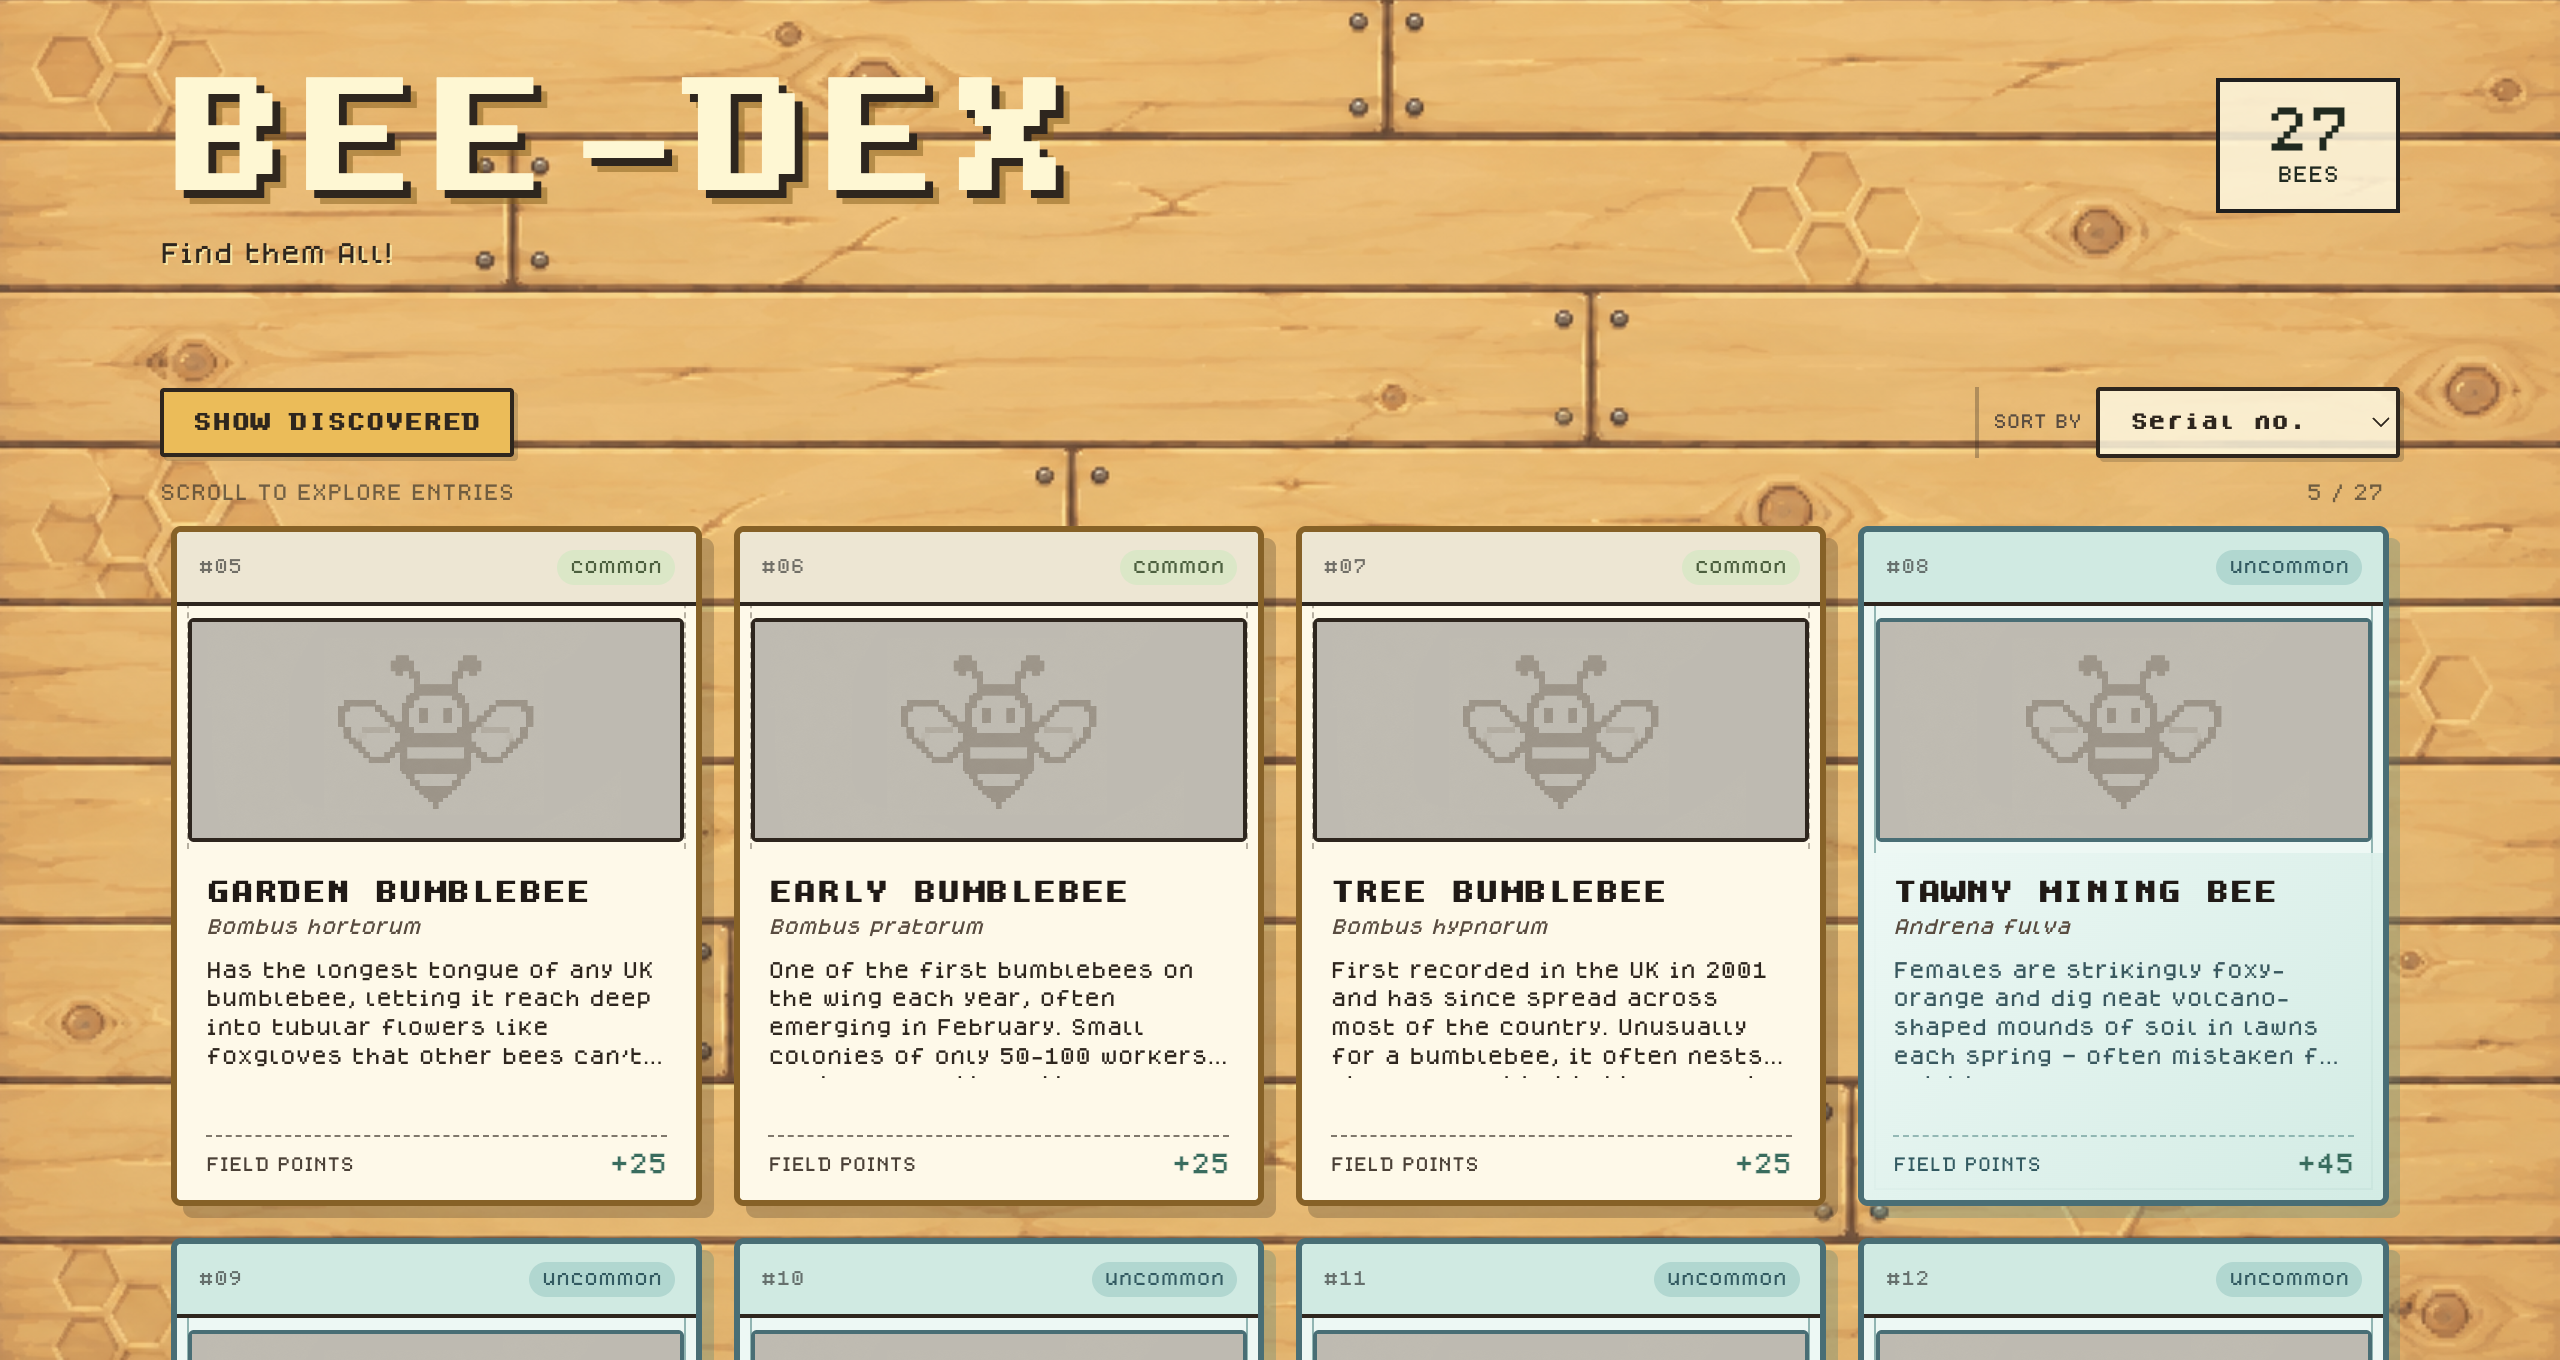
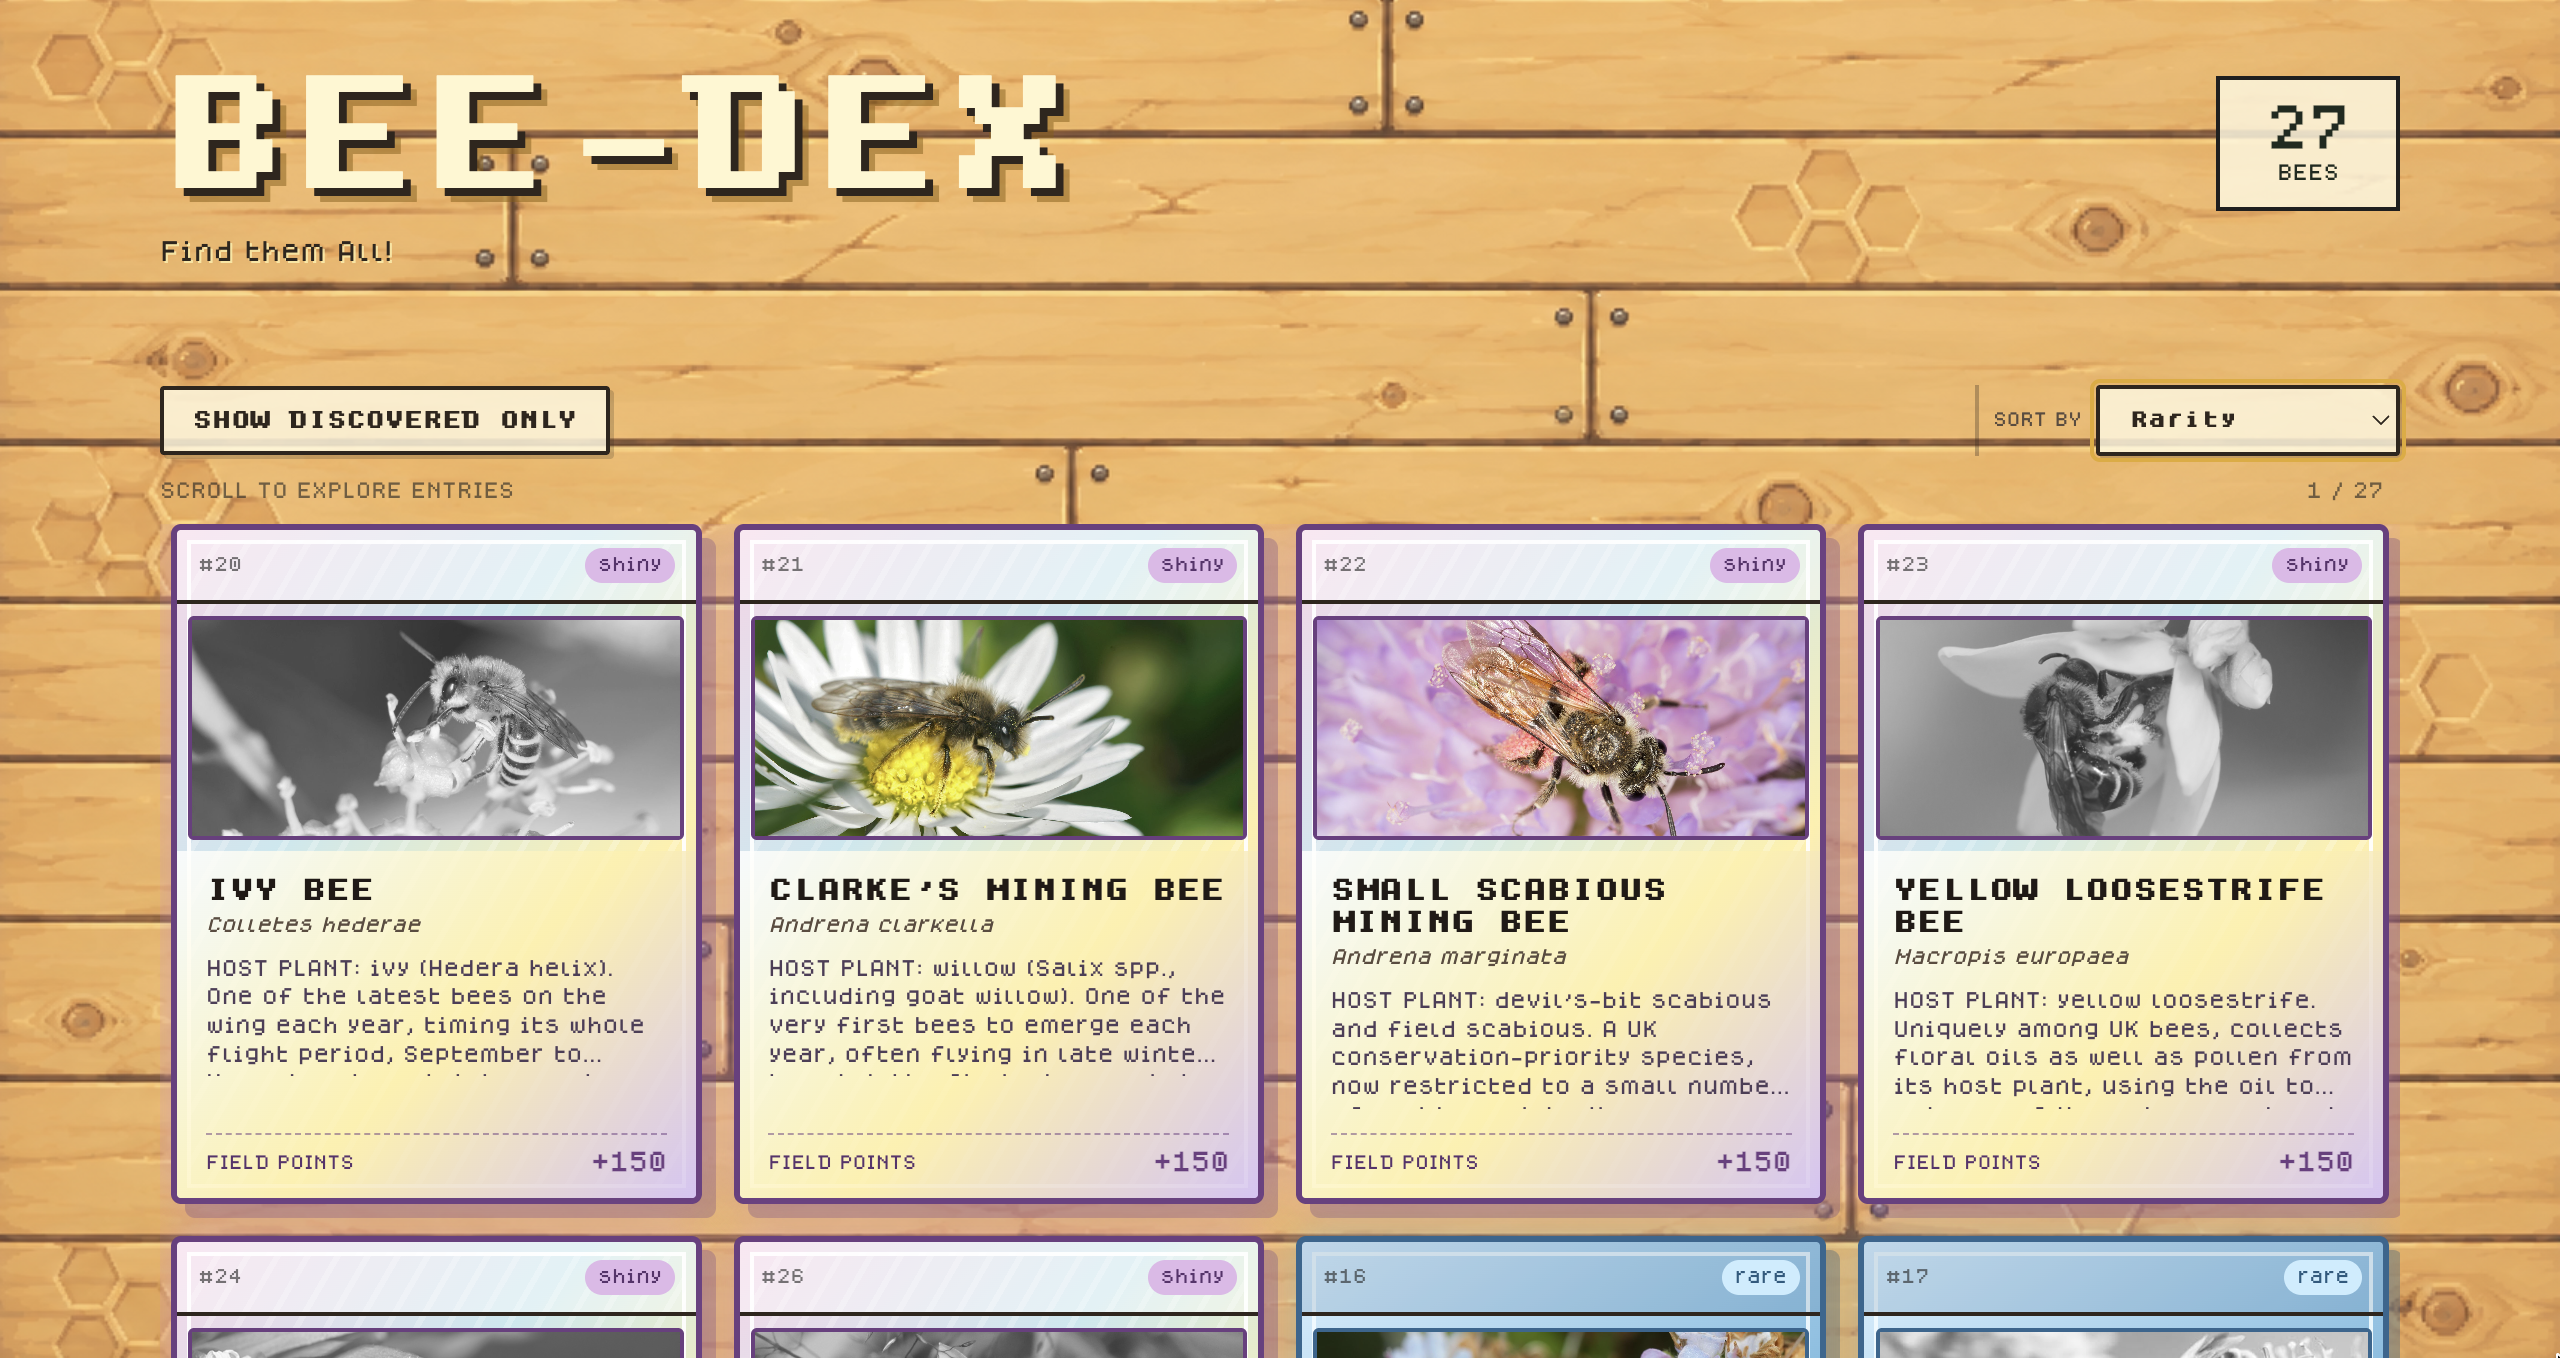
chore: minor cleanups

diff --git a/frontend/src/pages/Beedex.jsx b/frontend/src/pages/Beedex.jsx
@@ -1,7 +1,7 @@
 import { useEffect, useState } from "react"
 import { useRef } from "react"
 import { getBeedex, getUserBeedex } from "../api"
-import SpeciesCard from "../components/SpeciesCard"
+import SpeciesCard, { beeImageExtensions } from "../components/SpeciesCard"
 import "./Beedex.css"
 
 const Beedex = () => {
@@ -43,6 +43,12 @@ const Beedex = () => {
         fetchBeedex()
     }, [showUnlocked])
 
+    useEffect(() => {
+        if (!carouselRef.current) return
+        carouselRef.current.scrollTo({ top: 0, behavior: "auto" })
+        setSelectedIndex(0)
+    }, [sortMode, showUnlocked])
+
     const handleCarouselScroll = () => {
         const viewport = carouselRef.current
         if (!viewport) return
@@ -61,7 +67,6 @@ const Beedex = () => {
         setSortMode(event.target.value)
         setSelectedIndex(0)
         setSelectedBee(null)
-        carouselRef.current?.scrollTo({ top: 0, behavior: "smooth" })
     }
 
     useEffect(() => {
@@ -134,7 +139,7 @@ const Beedex = () => {
                             <div className="beedex-modal__image-wrap">
                                 <img
                                     className="beedex-modal__image"
-                                    src={`/bees/${selectedBee.species.species_id}.${({1: "png", 2: "JPG", 3: "jpg", 4: "jpg", 5: "jpg", 6: "jpg", 7: "jpg", 8: "jpg", 9: "webp", 10: "jpg"})[selectedBee.species.species_id] || "png"}`}
+                                    src={`/bees/${selectedBee.species.species_id}.${beeImageExtensions[selectedBee.species.species_id] || "png"}`}
                                     alt={selectedBee.species.common_name}
                                     onError={(event) => {
                                         if (event.currentTarget.dataset.fallback) return

diff --git a/frontend/src/components/SpeciesCard.jsx b/frontend/src/components/SpeciesCard.jsx
@@ -1,4 +1,9 @@
-const beeImageExtensions = { 1: 'png', 2: 'JPG', 3: 'jpg', 4: 'jpg', 5: 'jpg', 6: 'jpg', 7: 'jpg', 8: 'jpg', 9: 'webp', 10: 'jpg' }
+export const beeImageExtensions = {
+    1: 'png', 2: 'JPG', 3: 'jpg', 4: 'jpg', 5: 'jpg', 6: 'jpg', 7: 'jpg', 8: 'jpg',
+    9: 'webp', 10: 'jpg', 11: 'jpg', 12: 'webp', 13: 'jpg', 14: 'jpg', 15: 'jpg',
+    16: 'jpg', 17: 'jpg', 18: 'jpg', 19: 'jpg', 20: 'jpg', 21: 'jpg', 22: 'jpg',
+    23: 'jpg', 24: 'jpg', 25: 'jpg', 26: 'jpeg', 27: 'jpg',
+}
 
 const SpeciesCard = ({species, number, discovered, onSelect}) => {
     const rarity = String(species.rarity_tier || "Common").toLowerCase()

diff --git a/seed_db.py b/seed_db.py
@@ -8,21 +8,6 @@ Creates demo data for Apiary so the app has something to show on first load:
   species (a "natural" rarity distribution)
 - 5 extra plots owned by fresh random users, scattered across the UK, just
   so the community map isn't empty
-
-ASSUMPTIONS - check these against your real conventions and adjust if wrong:
-  - plants / nestings / species / plot_milestones are already loaded from
-    the real CSVs (via csv_loader.py or similar). This script only reads
-    them; it never invents plant, action, or species rows.
-  - sun_shade values are one of: "full_sun", "partial_shade", "full_shade"
-  - plot_type is a small int code (1-3) — there's no enum in models.py yet,
-    so this is a placeholder. Swap PLOT_TYPES below for your real codes.
-  - If plot_milestones is empty, falls back to Seedling/Garden/Habitat/
-    Sanctuary at 0/500/1250/2500 cumulative points.
-
-Run from your project root, e.g.:
-    python -m backend.seed_data
-(adjust the import paths below if seed_data.py doesn't live next to
-csv_loader.py / models.py / database.py)
 """
 
 import random
@@ -52,9 +37,9 @@ HERO_BASE_LAT = 51.4545
 HERO_BASE_LNG = -2.5879
 HERO_JITTER = 0.01  # roughly a 1-2km spread
 
-# Rough bounding box for scattering the filler plots across mainland UK
-UK_LAT_RANGE = (50.0, 58.5)
-UK_LNG_RANGE = (-6.5, 1.5)
+# Filler plots stay near the hero plots so the seeded map feels like one
+# connected local area.
+FILLER_JITTER = 0.025
 
 # Bias for the 7-species Bee-dex pull: common bees show up far more than
 # specialists, matching how you'd actually expect sightings to land.
@@ -67,13 +52,17 @@ RARITY_WEIGHTS = {
 
 FILLER_PLOT_COUNT = 5
 
+PLOT_NAMES = ["My Little Patch", "Bramble bed", "Wildflower row", "Our green corner", "Sunday Garden", "Window ledge", "Home Patch", "herb n honey", "The spare corner"]
+
+def get_plot_name():
+    if not PLOT_NAMES:
+        return None
+    name = random.choice(PLOT_NAMES)
+    PLOT_NAMES.remove(name)
+    return name
 
 def jitter(base, spread):
     return base + random.uniform(-spread, spread)
-
-
-def random_uk_coords():
-    return random.uniform(*UK_LAT_RANGE), random.uniform(*UK_LNG_RANGE)
 
 
 def get_milestones(db):
@@ -182,7 +171,7 @@ def main():
             plot = Plot(
                 id=f"{hero.id}{i + 1}",
                 user_id=hero.id,
-                plot_name=f"{milestone_name.title()} Plot",
+                plot_name=f"{get_plot_name() or "My Plot"}",
                 latitude=jitter(HERO_BASE_LAT, HERO_JITTER),
                 longitude=jitter(HERO_BASE_LNG, HERO_JITTER),
                 sun_shade=random.choice(SUN_SHADE_OPTIONS),
@@ -219,12 +208,13 @@ def main():
             db.add(filler_user)
             db.flush()
 
-            lat, lng = random_uk_coords()
+            lat = jitter(HERO_BASE_LAT, FILLER_JITTER)
+            lng = jitter(HERO_BASE_LNG, FILLER_JITTER)
             milestone_name, _ = random.choice(milestones)
             filler_plot = Plot(
                 id=f"{filler_user.id}1",
                 user_id=filler_user.id,
-                plot_name="Wild Plot",
+                plot_name=f"{get_plot_name() or "My Plot"}",
                 latitude=lat,
                 longitude=lng,
                 sun_shade=random.choice(SUN_SHADE_OPTIONS),
@@ -236,7 +226,7 @@ def main():
             db.add(filler_plot)
 
         db.commit()
-        print(f"Added {FILLER_PLOT_COUNT} filler plots scattered across the UK.")
+        print(f"Added {FILLER_PLOT_COUNT} filler plots near the hero plots.")
 
     print("Done.")
 
